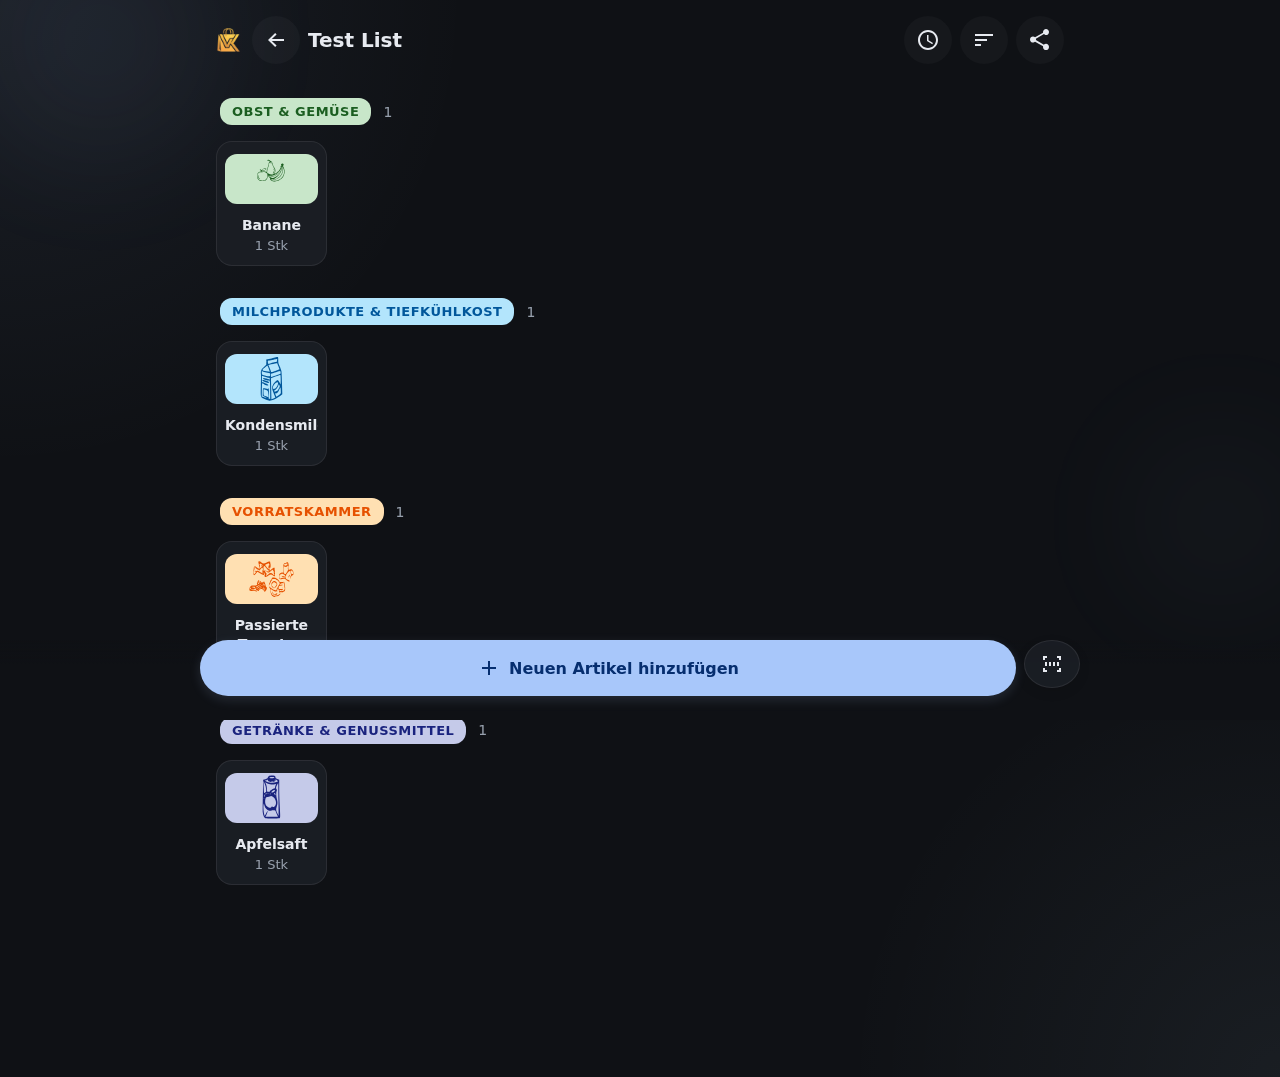
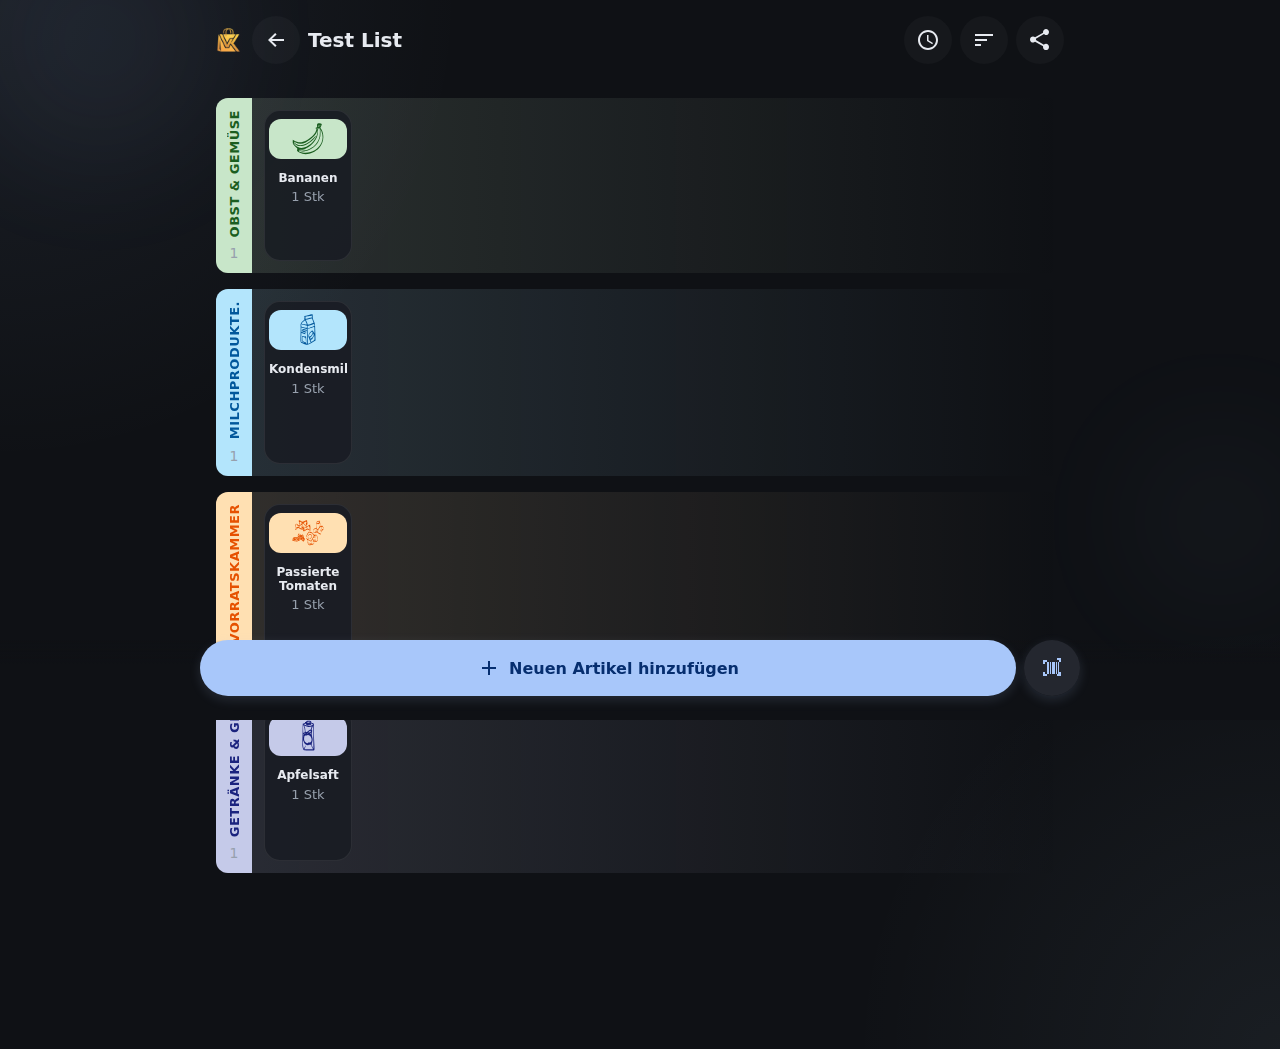
feat: optimize grid layout for mobile devices
- Reduced minimum column width in ListView to 80px
- Adjusted padding, font-sizes, and icon dimensions
- Ensures at least 3 items fit per row on classic smartphones
- Maintains responsive behavior for larger screens

diff --git a/frontend/src/views/ListView.vue b/frontend/src/views/ListView.vue
@@ -979,13 +979,13 @@ onUnmounted(() => {
 
 .ks-grid {
   display: grid;
-  grid-template-columns: repeat(auto-fill, minmax(100px, 1fr));
+  grid-template-columns: repeat(auto-fill, minmax(80px, 1fr));
   gap: 12px;
 }
 
 .grid-card {
   display: flex; flex-direction: column;
-  border-radius: var(--ks-radius-sm); padding: 12px 8px;
+  border-radius: var(--ks-radius-sm); padding: 8px 4px;
   cursor: pointer; text-align: center;
   transition: transform 0.1s, opacity 0.2s, background 0.2s, border-color 0.3s;
   position: relative;
@@ -1017,10 +1017,10 @@ onUnmounted(() => {
 
 .card-icon-area { 
   display: flex; align-items: center; justify-content: center; 
-  height: 50px; margin-bottom: 12px; border-radius: var(--ks-radius-xs);
+  height: 40px; margin-bottom: 12px; border-radius: var(--ks-radius-xs);
 }
 .initials { font-size: 24px; font-weight: 700; }
-.icon-svg { display: flex; align-items: center; justify-content: center; width: 45px; height: 45px; }
+.icon-svg { display: flex; align-items: center; justify-content: center; width: 32px; height: 32px; }
 .icon-svg :deep(svg) { width: 100%; height: 100%; }
 
 .item-quantity {
@@ -1031,9 +1031,9 @@ onUnmounted(() => {
 
 .card-text-area { display: flex; flex-direction: column; }
 .item-name { 
-  font-size: 14px; font-weight: 600; 
+  font-size: 12px; font-weight: 600;
   display: -webkit-box; -webkit-line-clamp: 2; -webkit-box-orient: vertical; 
-  overflow: hidden; line-height: 1.3; color: var(--ks-text);
+  overflow: hidden; line-height: 1.2; color: var(--ks-text);
 }
 .item-tags { display: flex; flex-wrap: wrap; gap: 4px; margin-top: 8px; justify-content: center; }
 .tag-pill { font-size: 10px; background: var(--ks-surface-4); padding: 2px 6px; border-radius: 8px; color: var(--ks-text-muted); }
